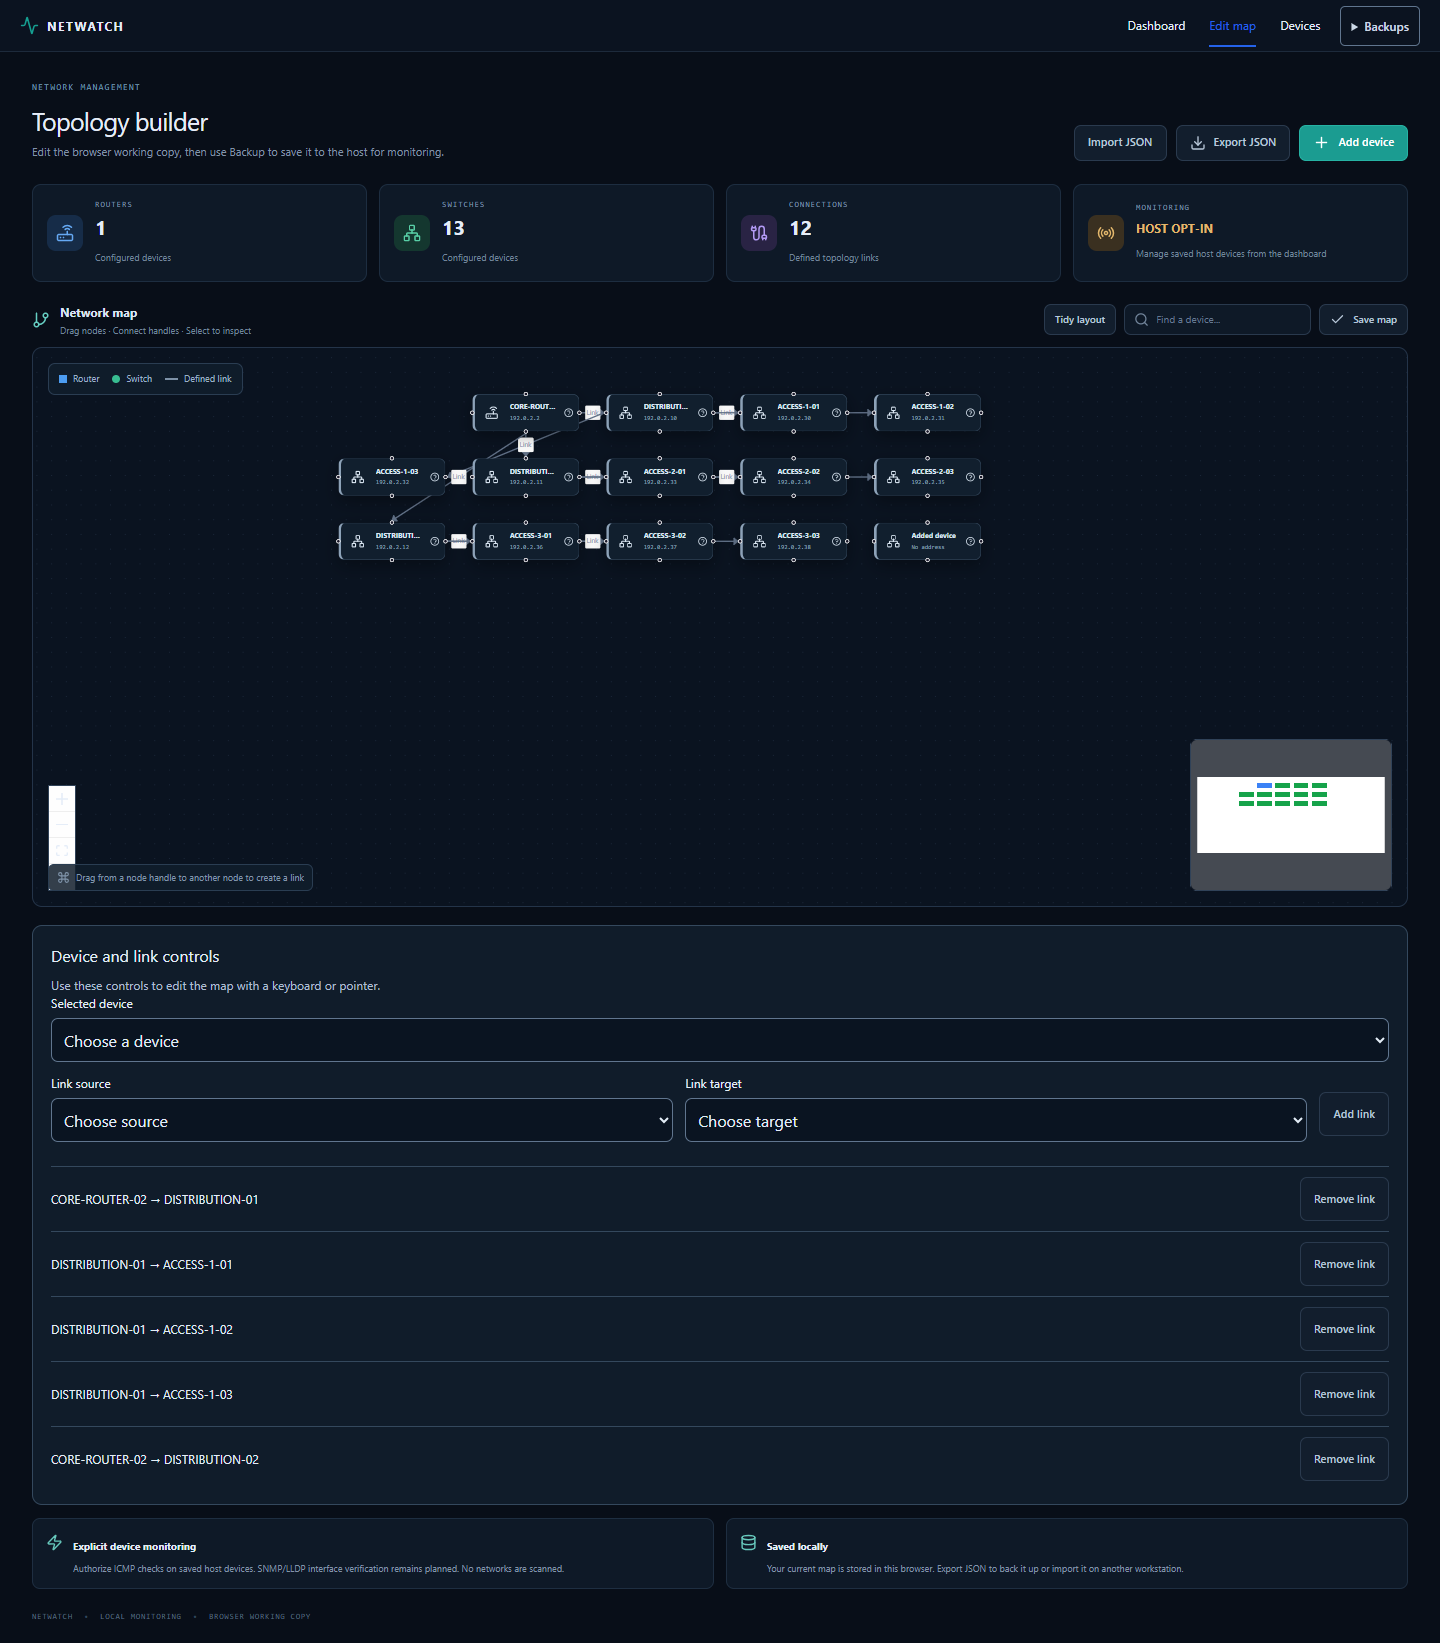
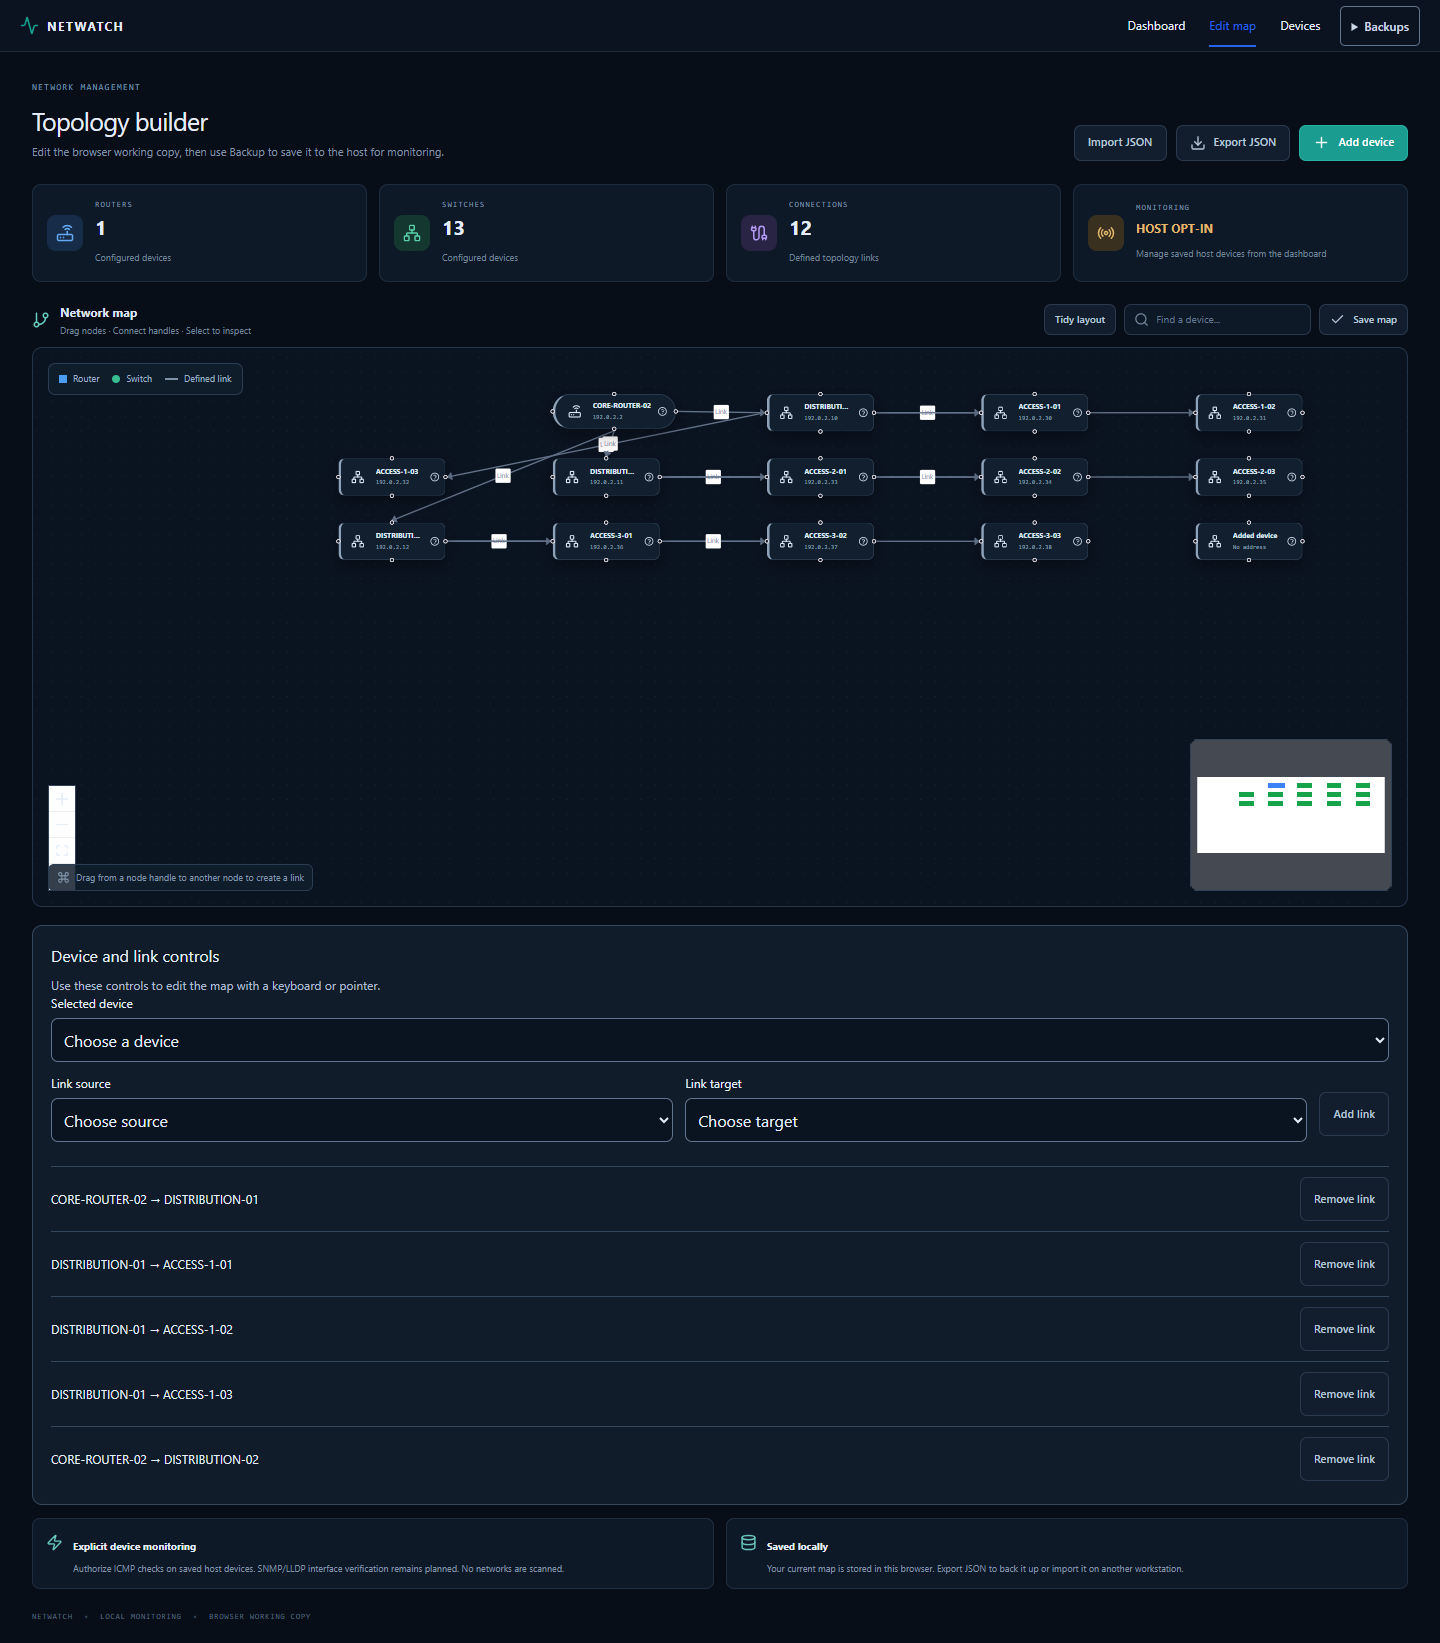
fix: fit router oblongs to their contents

Changed region(s): [[0.3125, 0.2173, 0.75, 0.3414], [0.8125, 0.2794, 0.875, 0.3414], [0.875, 0.4656, 0.9375, 0.4967]]

diff --git a/src/Dashboard.jsx b/src/Dashboard.jsx
@@ -21,7 +21,7 @@ function Status({ status }) {
 function HealthNode({ data, selected }) {
   const Icon = data.kind === 'router' ? Router : Network
   const StatusIcon = healthIcons[data.status]
-  return <div style={nodeDimensions} className={`health-node health-node-${data.status}${selected ? ' is-selected' : ''}${data.connectionRole ? ` health-node-${data.connectionRole}` : ''}`}>
+  return <div style={nodeDimensions} className={`health-node ${data.kind}-node health-node-${data.status}${selected ? ' is-selected' : ''}${data.connectionRole ? ` health-node-${data.connectionRole}` : ''}`}>
     <NodeHandles/>
     <span className="health-device-icon"><Icon size={18} aria-hidden="true"/></span>
     <div className="device-copy"><strong title={data.label}>{data.label}</strong><span className="health-address" title={data.ip}>{data.ip || 'No address'}</span></div>

diff --git a/src/nodes/placement.js b/src/nodes/placement.js
@@ -1,13 +1,13 @@
-import { NODE_WIDTH, NODE_HEIGHT } from './dimensions.js'
+import { NODE_MAX_WIDTH, NODE_HEIGHT } from './dimensions.js'
 
 const GAP = 40
 export function gridPosition(index) {
-  return { x: (index % 5) * (NODE_WIDTH + GAP), y: Math.floor(index / 5) * (NODE_HEIGHT + GAP) }
+  return { x: (index % 5) * (NODE_MAX_WIDTH + GAP), y: Math.floor(index / 5) * (NODE_HEIGHT + GAP) }
 }
 
 export function nextFreePosition(nodes) {
   for (let index = 0; ; index++) {
     const position = gridPosition(index)
-    if (nodes.every(node => Math.abs(node.position.x - position.x) >= NODE_WIDTH + GAP || Math.abs(node.position.y - position.y) >= NODE_HEIGHT + GAP)) return position
+    if (nodes.every(node => Math.abs(node.position.x - position.x) >= NODE_MAX_WIDTH + GAP || Math.abs(node.position.y - position.y) >= NODE_HEIGHT + GAP)) return position
   }
 }

diff --git a/src/styles.css b/src/styles.css
@@ -1139,3 +1139,16 @@ summary:focus-visible {
   --map-grid: #d6d9d1;
   --map-label: #94a3b8;
 }
+
+/* Routers hug their contents; cap unusually long names without stretching the map. */
+.device-node.router-node,
+.health-node.router-node {
+  width: max-content;
+  max-width: var(--node-max-width);
+  height: auto;
+  padding: 8px 12px;
+  border-radius: 999px;
+}
+.router-node .device-copy {
+  flex: 0 1 auto;
+}

diff --git a/src/nodes/dimensions.js b/src/nodes/dimensions.js
@@ -1,3 +1,4 @@
 export const NODE_WIDTH = 160
+export const NODE_MAX_WIDTH = 280
 export const NODE_HEIGHT = 56
-export const nodeDimensions = { '--node-width': `${NODE_WIDTH}px`, '--node-height': `${NODE_HEIGHT}px` }
+export const nodeDimensions = { '--node-width': `${NODE_WIDTH}px`, '--node-max-width': `${NODE_MAX_WIDTH}px`, '--node-height': `${NODE_HEIGHT}px` }

diff --git a/src/radial.js b/src/radial.js
@@ -1,4 +1,4 @@
-import { NODE_WIDTH as CARD_WIDTH, NODE_HEIGHT as CARD_HEIGHT } from './nodes/dimensions.js'
+import { NODE_MAX_WIDTH as CARD_WIDTH, NODE_HEIGHT as CARD_HEIGHT } from './nodes/dimensions.js'
 const SPACING = 320
 const compareIds = (a, b) => a < b ? -1 : a > b ? 1 : 0
 

diff --git a/docs/DESIGN.md b/docs/DESIGN.md
@@ -21,4 +21,4 @@ Validate at desktop and narrow widths. Check search, each status filter, selecti
 
 - Allow individual dashboard devices to be dragged, highlighting direct peers and attached links from drag start. Do not open a popup on drag release. Keep focus/reset controls over the map so they do not shift the canvas during a gesture. Saved-layout moves autosave; host/radial moves are temporary and explicitly resettable.
 
-- Map cards share 160×56 dimensions, a left health border, accessible status icon, type icon and single-line name/address. Desktop Devices uses a fitted table; below 720px it uses stacked cards. Backups opens below its header button, below the navigation on narrow screens.
+- Switch cards use 160×56 dimensions; router cards use content-sized oblongs capped at 280px with ellipsis/tooltips for long labels. Cards share a left health border, accessible status icon, type icon and single-line name/address. Desktop Devices uses a fitted table; below 720px it uses stacked cards. Backups opens below its header button, below the navigation on narrow screens.

diff --git a/docs/WORKLOG.md b/docs/WORKLOG.md
@@ -1,5 +1,11 @@
 # Working checkpoint
 
+## Current status (2026-11-13): content-sized router oblongs
+
+- Routers now use oblong borders in dashboard and editor, with intrinsic content width/height and compact padding. A shared 280px cap retains ellipsis/tooltips for unusually long names; switches remain 160×56 rectangles. Placement and radial spacing reserve the maximum router width. Stored topology is unchanged.
+- Verification: 52 tests, production build and focused desktop/narrow Playwright check pass. Browser assertions verify both router renderers have no unused horizontal space; refreshed 1440px dashboard/editor screenshots.
+
+
 ## Current status (2026-11-13): desktop map refinements
 
 - Five requested steps: compact shared cards/formatted CSS; visible counts/status/attention; nearest-side links and deterministic grid/tidy; connection copy/hash routes/removal confirmation/inline limit; anchored Backups and responsive Devices cards. Host code and v1 storage format unchanged.
